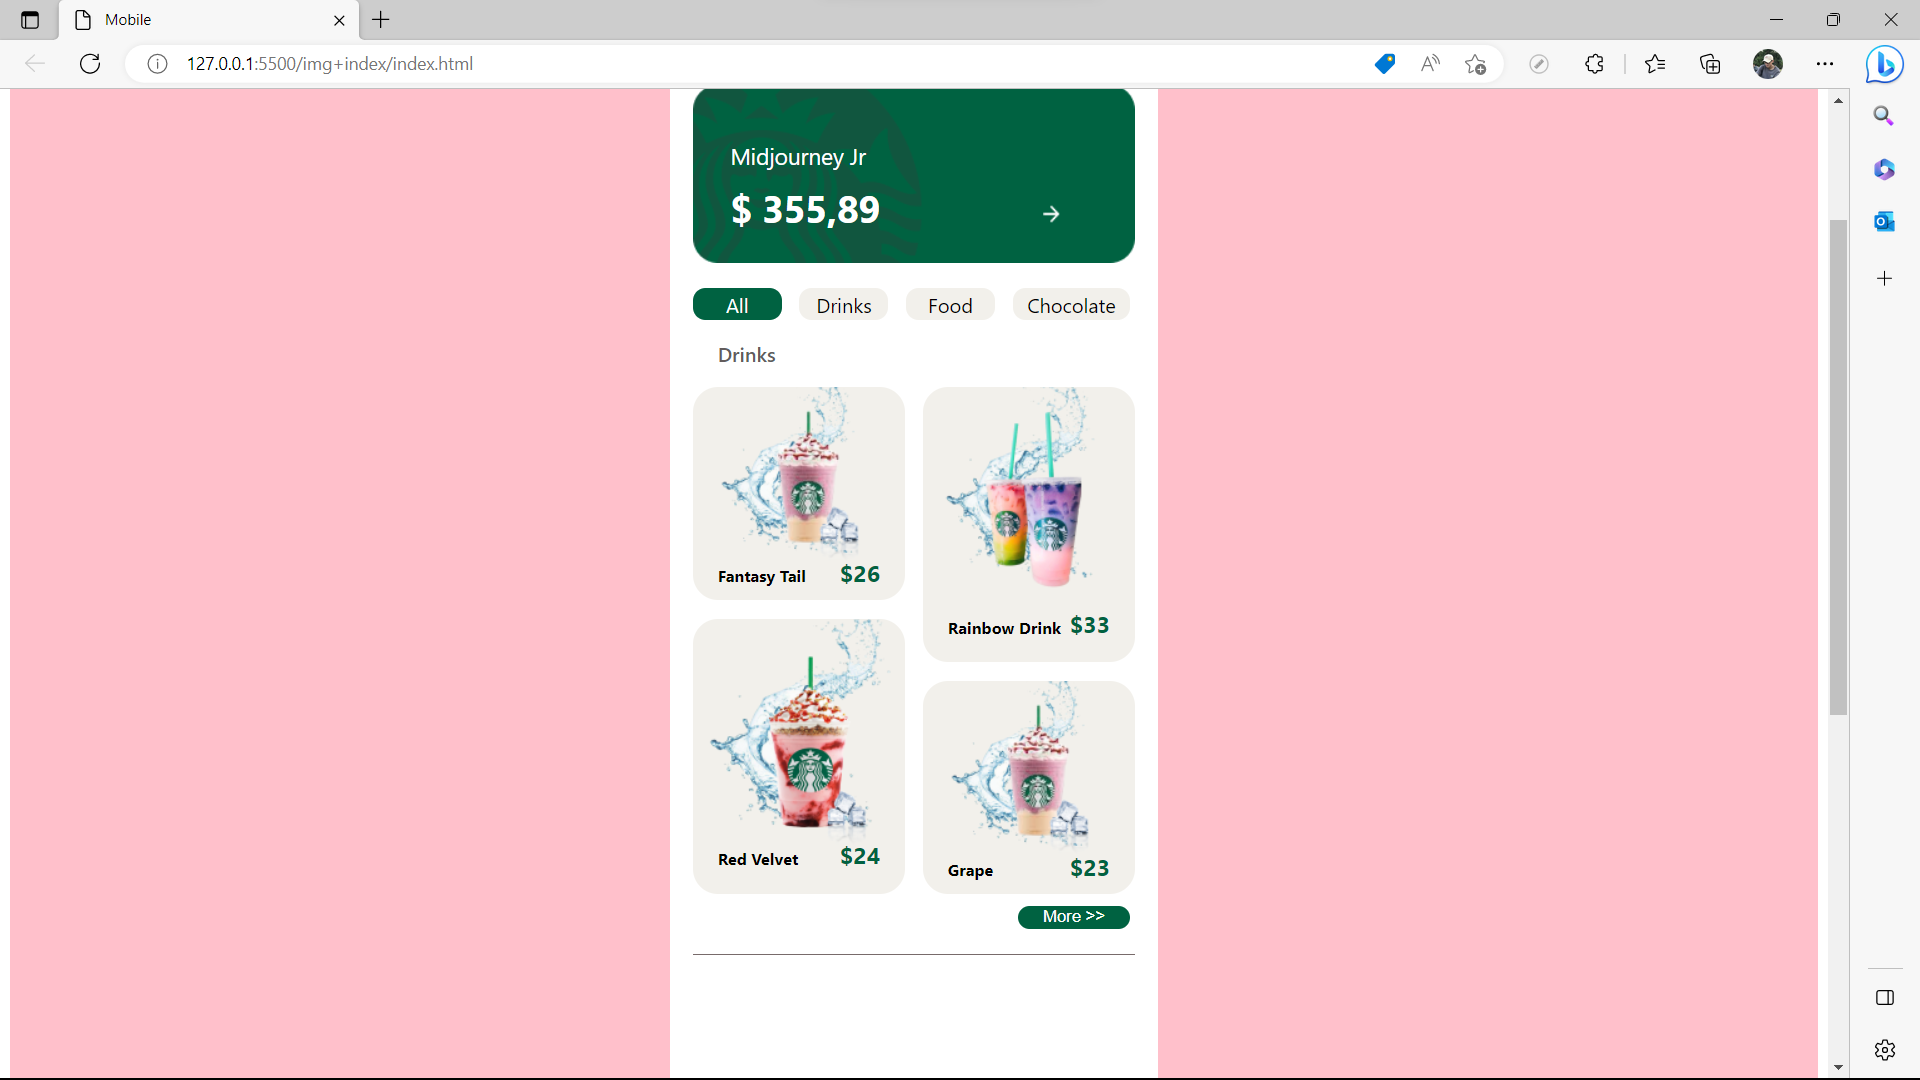
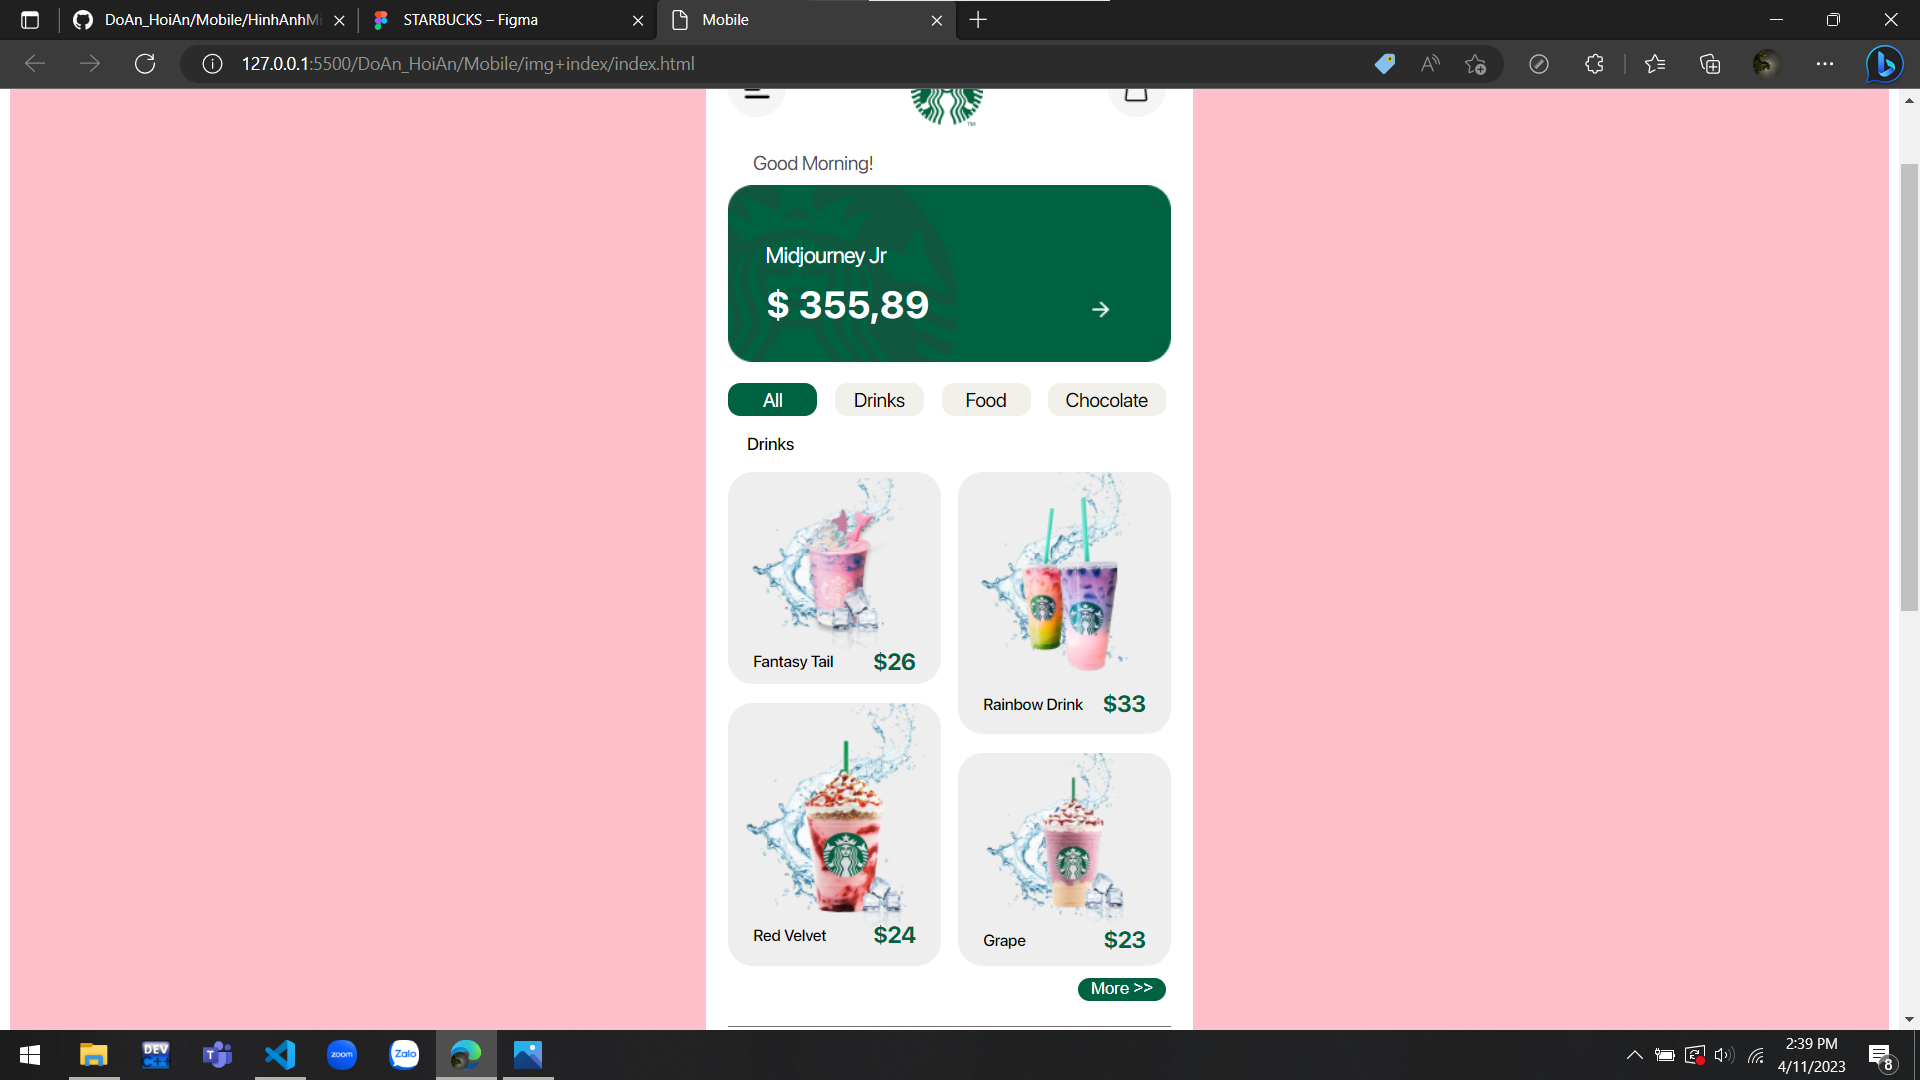
update

Changed region(s): [[0.0, 0.0, 1.0, 1.0]]

diff --git a/Mobile/img+index/index.html b/Mobile/img+index/index.html
@@ -8,7 +8,7 @@
     <title>Mobile</title>
     <style>
         #wrapper {
-            font-family:'Segoe UI', Tahoma, Geneva, Verdana, sans-serif;
+            font-family: 'SF Pro';
             display: flex;
             justify-content: center;
             align-items: center;
@@ -94,15 +94,15 @@
             border-bottom: 1px solid #786b6b;
         }
         #center_item1_img_line1{
-            background: #F2F0EB;
+            background: #EEEEEE;
             width: 170px;
             height: 170px;
             border-radius: 20px;
         }
         #center_item1_img_line2{
-            background: #F2F0EB;
+            background: #EEEEEE;
             width: 170px;
-            height: 220px;
+            height: 210px;
             border-radius: 20px;
         }
         #center_item1_line1{
@@ -129,40 +129,37 @@
             background: #006241;
             color: white;
             border-radius: 20px;
-            width: 90px;
+            width: 70px;
             margin-top: 10px;
-            margin-left: 260px;
-            border: #F2F0EB;
+            margin-left: 280px;
+            border: none;
             margin-bottom: 20px;
         } 
         #center_item2_img_line1{
-            background: #F2F0EB;
-            width: 170px;
-            height: 150px;
+            background: #EEEEEE;
+            width: 147px;
+            height: 155px;
             border-radius: 20px;
+            margin-right: 35px;
         }
         #center_item2_img_line2{
-            background: #F2F0EB;
-            width: 170px;
-            height: 150px;
+            background: #EEEEEE;
+            width: 147px;
+            height: 155px;
             border-radius: 20px;
+            margin-right: 35px;
         }
         #center_item2_line1{
             display: flex;
-            justify-content: space-between;
             margin-bottom: 20px;
-        }
-        .center_item2_img1{
-            padding-left: 20px;
         }
         
         #center_item2_line2{
             display: flex;
-            justify-content: space-between;
         }
         #center_item2_text{
             display: flex;
-            margin: -30px 20px 0 20px;
+            margin: -20px 10px 0 17px;
             align-items: center;
             justify-content: space-between;
         }
@@ -170,9 +167,9 @@
             background: #006241;
             color: white;
             border-radius: 20px;
-            width: 90px;
+            width: 70px;
             margin-top: 10px;
-            margin-left: 260px;
+            margin-left: 280px;
             border: #F2F0EB;
             margin-bottom: 20px;
         }
@@ -186,10 +183,11 @@
             margin-left: 30px;
         }
         #center_item3_text{
-            font-size: 12px;
+            font-size: 10px;
             font-weight: 700;
             line-height: 12px;
             text-align: center;
+            margin-top: 5px;
         }
         #footer{
             margin: 20px 30px 0 30px;
@@ -221,8 +219,8 @@
                     <img src="logo.png" alt="">
                     <img src="Group 578.png" alt="">
                 </div>
-                <div style="color: #908b8b; font-weight: bold;">Good morning!</div>
-                <div style="margin-top: 10px;">
+                <div style="color: #545151;; margin-left: 20px;">Good Morning!</div>
+                <div style="margin-top: 8px;">
                     <img src="Frame 1.png" alt="">
                     <div style="margin-left: 30px; margin-top: -100px; color: white;">
                         <div style="font-size: 18px; line-height: 22px;">Midjourney Jr</div>
@@ -237,35 +235,35 @@
                     <div class="chocolate">Chocolate</div>
                 </div>
                 <div class="center_item1">
-                    <p style="margin-left: 20px; font-weight: 500; color: #625c5c;">Drinks</p>
+                    <p style="margin-left: 15px; font-weight: 500; color: black; font-size: 14px;">Drinks</p>
                     <div id="center_item1_line1">
                         <div id="center_item1_img_line1">
-                            <img class="center_item1_img1" src="grape.png" alt="" >
+                            <img src="tail.png" alt="" style="margin-left: -20px; margin-top: 5px;">
                             <div id="center_item1_text">
-                                <h5 style="font-size: 13px; padding-top: 5px;">Fantasy Tail</h5>
-                                <h3 style="color: #006241;">$26</h3>
+                                <div style="font-size: 13px; font-weight: 500; ">Fantasy Tail</div>
+                                <h3 style="color: #00623B;">$26</h3>
                             </div>
                         </div>
                         <div id="center_item1_img_line2">
                             <img class="center_item1_img2" style="padding-left: 15px;" src="raibow.png" alt="">
                             <div id="center_item1_text" style="margin-top: -10px;">
-                                <h5 style="font-size: 13px; padding-top: 5px;">Rainbow Drink</h5>
+                                <div style="font-size: 13px; font-weight: 500; ">Rainbow Drink</div>
                                 <h3 style="color: #006241;">$33</h3>
                             </div>
                         </div>
                     </div>
                     <div id="center_item1_line2">
-                        <div id="center_item1_img_line2" style="margin-top: -35px;" >
+                        <div id="center_item1_img_line2" style="margin-top: -25px;" >
                             <img class="center_item1_img2" src="red.png" alt="">
-                            <div id="center_item1_text">
-                                <h5 style="font-size: 13px; padding-top: 5px;">Red Velvet</h5>
+                            <div id="center_item1_text" style="margin-top: -30px;">
+                                <div style="font-size: 13px; font-weight: 500; ">Red Velvet</div>
                                 <h3 style="color: #006241;">$24</h3>
                             </div>
                         </div>
                         <div id="center_item1_img_line1" style="margin-top: 15px;" >
                             <img class="center_item1_img1" src="grape.png" alt="">
-                            <div id="center_item1_text">
-                                <h5 style="font-size: 13px; padding-top: 5px;">Grape</h5>
+                            <div id="center_item1_text" style="margin-top: -25px;">
+                                <h5 style="font-size: 13px; font-weight: 500; ">Grape</h5>
                                 <h3 style="color: #006241;">$23</h3>
                             </div>
                         </div>
@@ -273,46 +271,46 @@
                     <button id="center_item1_button">More >></button>
                 </div>
                 <div class="center_item2">
-                    <p style="margin-left: 20px; font-weight: 500; color: #625c5c;">Food</p>
+                    <p style="margin-left: 15px; font-weight: 500; color: black; font-size: 14px;">Food</p>
                     <div id="center_item2_line1">
                         <div id="center_item2_img_line1">
-                            <img class="center_item2_img1" src="food1.png" alt="" >
+                            <img src="food1.png" alt="" style="padding-left: 15px; padding-top: 15px;">
                             <div id="center_item2_text">
-                                <h5 style="font-size: 12px; padding-top: 5px;">Spinach, Feta & Egg White Wrap</h5>
-                                <h3 style="color: #006241;">$15</h3>
+                                <h5 style="font-size: 10px; padding-top: 1px;">Spinach, Feta & Egg White Wrap</h5>
+                                <h3 style="color: #006241; font-size: 15px;">$15</h3>
                             </div>
                         </div>
                         <div id="center_item2_img_line2">
-                            <img class="center_item2_img1" src="image 1.png" alt="">
-                            <div id="center_item2_text" style="margin-top: -20px;">
-                                <h5 style="font-size: 12px; padding-top: 5px;">Bacon, Sausage & Egg Wrap</h5>
-                                <h3 style="color: #006241;">$12</h3>
+                            <img src="image 1.png" alt="" style="padding-top: 15px; padding-left: 10px;">
+                            <div id="center_item2_text" style="margin-top: -10px;">
+                                <h5 style="font-size: 10px; padding-top: 5px;">Bacon, Sausage & Egg Wrap</h5>
+                                <h3 style="color: #006241; font-size: 15px;">$12</h3>
                             </div>
                         </div>
                     </div>
                     <div id="center_item2_line2">
                         <div id="center_item2_img_line2" >
-                            <img class="center_item2_img1" src="image 3.png" alt="">
+                            <img src="image 3.png" alt="" style="padding-left: 10px; padding-top: 15px;">
                             <div id="center_item2_text">
-                                <h5 style="font-size: 12px; padding-top: 5px;">Sausage,Cheddar & Egg Sandwich</h5>
-                                <h3 style="color: #006241;">$10</h3>
+                                <h5 style="font-size: 10px; padding-top: 5px;">Sausage,Cheddar & Egg Sandwich</h5>
+                                <h3 style="color: #006241; font-size: 15px;">$10</h3>
                             </div>
                         </div>
                         <div id="center_item2_img_line1">
-                            <img class="center_item2_img1" src="image 4.png" alt="">
+                            <img src="image 4.png" alt="" style="padding-left: 5px; padding-top: 15px;">
                             <div id="center_item2_text">
-                                <h5 style="font-size: 12px; padding-top: 5px;">Bacon,Gouda & Egg Sandwich</h5>
-                                <h3 style="color: #006241;">$11</h3>
+                                <h5 style="font-size: 10px; padding-top: 5px;">Bacon,Gouda & <br> Egg Sandwich</h5>
+                                <h3 style="color: #006241; font-size: 15px;">$11</h3>
                             </div>
                         </div>
                     </div>
                     <button id="center_item2_button">More >></button>
                 </div>
-                <p style="margin-left: 20px; margin-top: -10px; font-weight: 500; color: #625c5c;">Sous Vide Egg Bites</p>
+                <p style="margin-left: 15px; margin-top: -10px; font-weight: 500; color: black; font-size: 14px;">Sous Vide Egg Bites</p>
                 <div id="center_item3">
                     <div id="center_item3_img">
                         <img src="bake1.png" alt="">
-                        <div id="center_item3_text">kale & Mushroom Egg Bites</div>
+                        <div id="center_item3_text">Kale & Mushroom Egg Bites</div>
                     </div>
                     <div id="center_item3_img">
                         <img src="bake2.png" alt="">
@@ -322,6 +320,7 @@
                         <img src="bake3.png" alt="">
                         <div id="center_item3_text">Egg White & Roasted Red Pepper Egg Bites</div>
                     </div>
+                    <div><img src="Vector 1.png" alt="" style="margin-top: 30px; margin-left: 20px;"></div>
                 </div>
             </div>
             <div id="footer">
